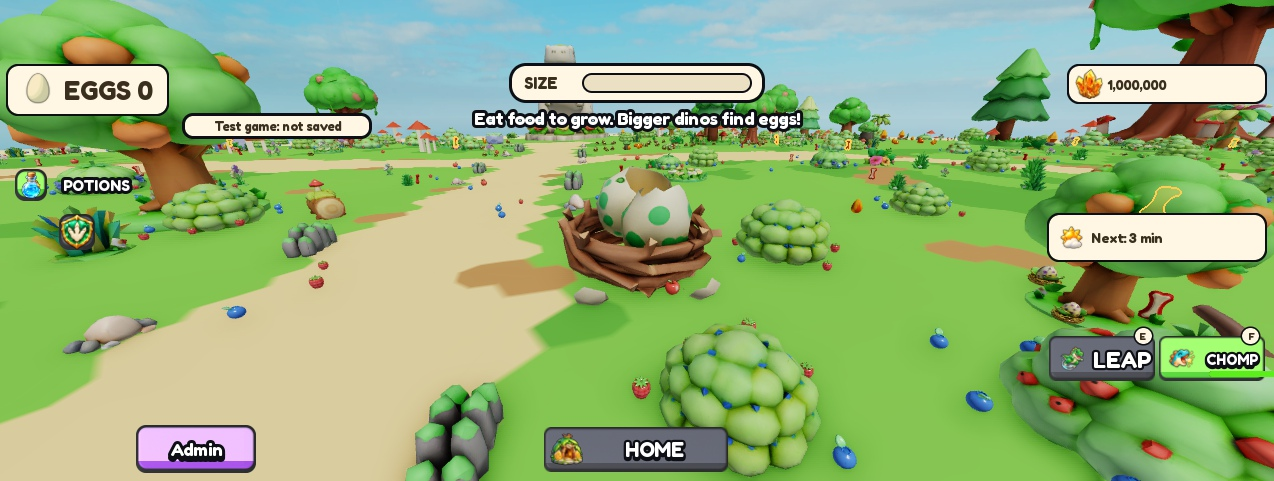
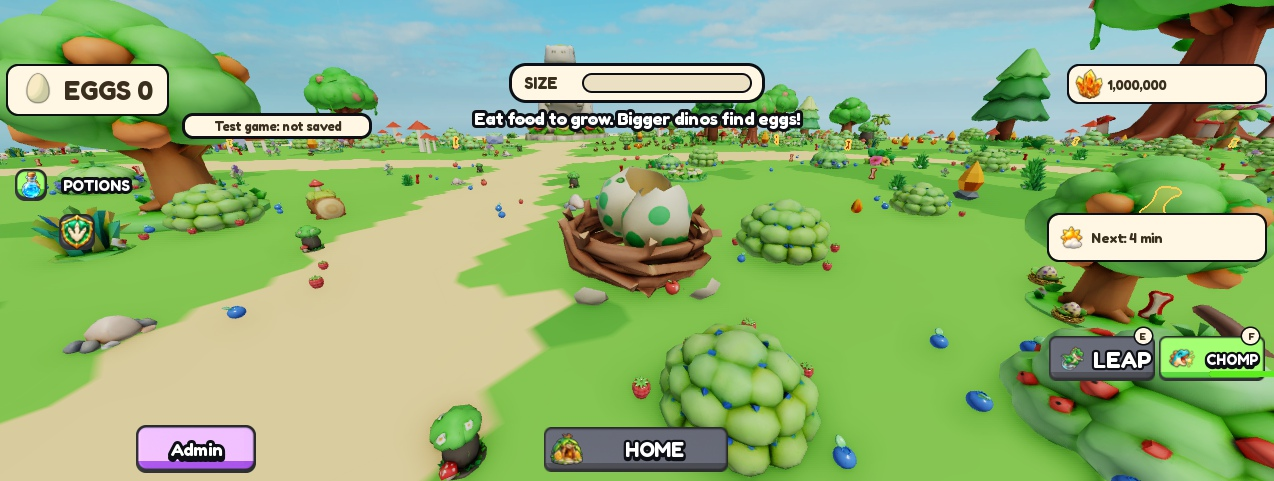
BD-1245 lead review of #623: no brown hexagons on the path rim, rounded mossy rocks instead of the blocky edge stones
- WorldFill.surface: the path rim takes the path colour (a brown/rock biome pick becomes Limestone, grass stays
  grass), only the grass varies (the other green); no earth spots.
- Edge stones show the vegetation v2 mossy rock (use = "veg2_rock_mossy"); the generated row 73588589747994
  is rejected (docs/77), not loaded.
- New after pictures; the first-version pictures kept as review1-*. Studio parts within 300 studs: 4,311.

diff --git a/tools/verify_world_fill.py b/tools/verify_world_fill.py
@@ -15,7 +15,7 @@ placements (tools/world_colliders.dump) in the pinned Luau runtime and checks:
   * the part bill near spawn (BD-1222 phone budget): ground cover dropped by the lower CoverKeep within 300 studs of spawn is more than the
     pieces added there (set pieces with their collider included), so the count goes down.
 Source guards: both flags ship false, are pinned off in the default profile, ON in the playtest profile and in the rehearsal list; Arena,
-IslandTerrain, FoodLayer, FoodGlow and the loader act only through the flag checks; Bootstrap.client is untouched; the nine generated ids
+IslandTerrain, FoodLayer, FoodGlow and the loader act only through the flag checks; Bootstrap.client is untouched; the eight generated ids
 are real, distinct and listed in docs/77; the evidence pictures exist.
 Usage: python tools/verify_world_fill.py --runner luau.exe"""
 from pathlib import Path
@@ -57,24 +57,30 @@ check(not Fill.thingsEnabled({WorldV3Enabled = true, ToonWorldEnabled = true, Ve
 check(not Fill.groundEnabled(nil) and not Fill.thingsEnabled(nil), "off for nil")
 for key in Fill.Assets do check(Fill.ready(key), "published id for " .. key) end
 
--- surface
-local changed, edge = 0, 0
+-- surface (lead review of #623: no brown on the path rim, only the grass varies)
+local changed, rim = 0, 0
 for x = -300, 300, 7 do
     for z = -270, 330, 7 do
         local h = V3.height(x, z)
         local zone = V3.zoneAt(x, z).id
-        check(Fill.surface(V3, x, z, h, "Sand") == nil and Fill.surface(V3, x, z, h, "Limestone") == nil and Fill.surface(V3, x, z, h, "Rock") == nil, "only grass columns change")
-        local s = Fill.surface(V3, x, z, h, "Grass")
-        if s then
-            changed += 1
-            check(zone == "meadow" or zone == "forest" or zone == "pine", "grass zones only (" .. zone .. ")")
-            check(s == "Ground" or s == "LeafyGrass", "earth or the other green")
-            if V3.path(x, z) > .04 then edge += 1 check(s == "Ground", "the path rim is worn earth") end
+        local onRim = V3.path(x, z) > .04
+        for _, pick in {"Grass", "LeafyGrass", "Ground", "Mud", "Sand", "Rock", "Limestone"} do
+            local s = Fill.surface(V3, x, z, h, pick)
+            check(s ~= "Ground" and s ~= "Mud", "never paints earth")
+            if s then
+                changed += 1
+                check(zone == "meadow" or zone == "forest" or zone == "pine", "grass zones only (" .. zone .. ")")
+                if onRim then
+                    check(pick ~= "Grass" and pick ~= "LeafyGrass" and s == "Limestone", "the path rim takes the path colour, grass stays grass")
+                    rim += 1
+                else
+                    check((pick == "Grass" and s == "LeafyGrass") or (pick == "LeafyGrass" and s == "Grass"), "away from the path only the grass varies")
+                end
+            end
         end
-        if Fill.surface(V3, x, z, h, "LeafyGrass") == "LeafyGrass" then check(false, "LeafyGrass never maps to itself") end
     end
 end
-check(changed > 300 and edge > 20, string.format("surface changes some grass (%d, rim %d)", changed, edge))
+check(changed > 300 and rim > 20, string.format("surface changes some grass and the rim (%d, rim %d)", changed, rim))
 
 -- ground detail and set pieces against the real island
 local blockers = {}
@@ -213,9 +219,12 @@ def source_checks():
     if 'WorldFill' in boot or 'GroundDetail' in boot or 'ThingsToDo' in boot:
         errors.append('Bootstrap.client must not change')
     registry = read('docs/77-asset-registry.md')
-    items = re.findall(r'((?:fill|set)_\w+) = \{assetId = "(\d+)"', read('src/shared/WorldFill.luau'))
-    if len(items) != 9 or len({i for _, i in items}) != 9:
-        errors.append('9 distinct published ids expected (%d)' % len(items))
+    fill = read('src/shared/WorldFill.luau')
+    items = re.findall(r'((?:fill|set)_\w+) = \{assetId = "(\d+)"', fill)
+    if len(items) != 8 or len({i for _, i in items}) != 8:
+        errors.append('8 distinct published ids expected (%d)' % len(items))
+    if 'fill_edge_stones = {assetId = "", use = "veg2_rock_mossy"' not in fill or '| world_gen_fill_edge_stones |' not in registry:
+        errors.append('the edge stones show the vegetation v2 mossy rock (the blocky generated row is rejected, still listed in docs/77)')
     for key, aid in items:
         if f'| world_gen_{key} |' not in registry or f'| {aid} |' not in registry:
             errors.append(f'docs/77 line missing for {key} ({aid})')

diff --git a/tests/test_world_fill.py b/tests/test_world_fill.py
@@ -1,10 +1,11 @@
 """BD-1245 + BD-1246 world fill: offline source checks (the Luau checks are tools/verify_world_fill.py, in CI)."""
-import importlib.util
 import pathlib
 import re
+import sys
 import unittest
 
 ROOT = pathlib.Path(__file__).resolve().parents[1]
+sys.path.insert(0, str(ROOT / 'tools'))
 
 
 def read(path):
@@ -14,9 +15,7 @@ def read(path):
 class WorldFillTests(unittest.TestCase):
     def test_flags_ship_off_and_playtest_turns_them_on(self):
         text = read('src/shared/Config.luau')
-        spec = importlib.util.spec_from_file_location('release_profiles', ROOT / 'tools' / 'release_profiles.py')
-        profiles = importlib.util.module_from_spec(spec)
-        spec.loader.exec_module(profiles)
+        import release_profiles as profiles
         playtest = profiles.apply_profile(text, 'playtest')[0]
         for flag in ('GroundDetailEnabled', 'ThingsToDoEnabled'):
             self.assertIn(f'    {flag} = false,\n', text)
@@ -24,10 +23,10 @@ class WorldFillTests(unittest.TestCase):
             self.assertIn(flag, [key for key, _ in profiles.REHEARSAL_ON])
         self.assertEqual(profiles.verify_source(text, 'default').errors, [])
 
-    def test_nine_published_ids_with_registry_lines(self):
+    def test_eight_published_ids_with_registry_lines(self):
         items = re.findall(r'((?:fill|set)_\w+) = \{assetId = "(\d+)"', read('src/shared/WorldFill.luau'))
-        self.assertEqual(len(items), 9)
-        self.assertEqual(len({i for _, i in items}), 9)
+        self.assertEqual(len(items), 8)  # + the edge stones, which show the vegetation v2 mossy rock (lead review of #623)
+        self.assertEqual(len({i for _, i in items}), 8)
         registry = read('docs/77-asset-registry.md')
         for key, aid in items:
             self.assertIn(f'| world_gen_{key} |', registry)

diff --git a/docs/77-asset-registry.md b/docs/77-asset-registry.md
@@ -470,7 +470,7 @@ The 17-sound pack from `assets/audio/sfx/` (synthesized placeholders by `tools/g
 | world_gen_veg2_rock_mossy | 3D mesh, vegetation v2: grey boulder with a moss cap and a mushroom, up to 600 tris (BD-1239, Roblox generate_mesh from the approved concept sheet, reference docs/evidence/2026-11-16-vegetation-v2/refs/ref-rock_mossy_a.png, published to owner account 2026-11-16; no repo file) | - | 123042036522291 | src/shared/VegetationV2.luau Assets, src/server/ImportedResources.luau loadGeneratedWorld, src/server/Arena.luau veg2Prop | published, loaded and used only with Config.VegetationV2Enabled (+ WorldV3Enabled, ToonWorldEnabled; playtest profile); a failed load keeps the current mesh |
 | world_gen_veg2_rock_spiral | 3D mesh, vegetation v2: mossy stone with a carved spiral, up to 700 tris (BD-1239, Roblox generate_mesh from the approved concept sheet, reference docs/evidence/2026-11-16-vegetation-v2/refs/ref-rock_mossy_spiral.png, published to owner account 2026-11-16; no repo file) | - | 110545121175304 | src/shared/VegetationV2.luau Assets, src/server/ImportedResources.luau loadGeneratedWorld, src/server/Arena.luau veg2Prop | published, loaded and used only with Config.VegetationV2Enabled (+ WorldV3Enabled, ToonWorldEnabled; playtest profile); a failed load keeps the current mesh |
 | world_gen_fill_pebbles | 3D mesh, world fill: cluster of five smooth pebbles (BD-1245, owner 2026-11-16 "game still looks empty", Roblox generate_mesh from a text prompt in the project test Studio, published to owner account 2026-11-16; Studio pictures docs/evidence/2026-11-16-world-fill-ground; no repo file) | - | 118507450426245 | src/shared/WorldFill.luau Assets, src/server/ImportedResources.luau loadGeneratedWorld, src/server/Arena.luau worldFill | published, loaded and used only with Config.GroundDetailEnabled (+ WorldV3Enabled, ToonWorldEnabled, VegetationV2Enabled; playtest profile); a failed load leaves that piece out |
-| world_gen_fill_edge_stones | 3D mesh, world fill: row of four rounded path edge stones with moss caps (BD-1245, owner 2026-11-16 "game still looks empty", Roblox generate_mesh from a text prompt in the project test Studio, published to owner account 2026-11-16; Studio pictures docs/evidence/2026-11-16-world-fill-ground; no repo file) | - | 73588589747994 | src/shared/WorldFill.luau Assets, src/server/ImportedResources.luau loadGeneratedWorld, src/server/Arena.luau worldFill | published, loaded and used only with Config.GroundDetailEnabled (+ WorldV3Enabled, ToonWorldEnabled, VegetationV2Enabled; playtest profile); a failed load leaves that piece out |
+| world_gen_fill_edge_stones | 3D mesh, world fill: row of four path edge stones (BD-1245, Roblox generate_mesh from a text prompt, published to owner account 2026-11-16; no repo file). REJECTED in the lead review of #623 (sharp blocky cubes): not loaded or used; the edge stones show world_gen_veg2_rock_mossy instead | - | 73588589747994 | none (src/shared/WorldFill.luau keeps fill_edge_stones with use = "veg2_rock_mossy") | rejected, not used |
 | world_gen_fill_flower_patch | 3D mesh, world fill: round patch of soft grass clumps with daisies, buttercups and pink flowers (BD-1245, owner 2026-11-16 "game still looks empty", Roblox generate_mesh from a text prompt in the project test Studio, published to owner account 2026-11-16; Studio pictures docs/evidence/2026-11-16-world-fill-ground; no repo file) | - | 121062536751756 | src/shared/WorldFill.luau Assets, src/server/ImportedResources.luau loadGeneratedWorld, src/server/Arena.luau worldFill | published, loaded and used only with Config.GroundDetailEnabled (+ WorldV3Enabled, ToonWorldEnabled, VegetationV2Enabled; playtest profile); a failed load leaves that piece out |
 | world_gen_fill_log | 3D mesh, world fill: short fallen log with moss and a red mushroom (BD-1245, owner 2026-11-16 "game still looks empty", Roblox generate_mesh from a text prompt in the project test Studio, published to owner account 2026-11-16; Studio pictures docs/evidence/2026-11-16-world-fill-ground; no repo file) | - | 76677189977321 | src/shared/WorldFill.luau Assets, src/server/ImportedResources.luau loadGeneratedWorld, src/server/Arena.luau worldFill | published, loaded and used only with Config.GroundDetailEnabled (+ WorldV3Enabled, ToonWorldEnabled, VegetationV2Enabled; playtest profile); a failed load leaves that piece out |
 | world_gen_set_egg_nest | 3D mesh, world fill: twig nest with two cracked dino egg shells (BD-1246, owner 2026-11-16 "game still looks empty", Roblox generate_mesh from a text prompt in the project test Studio, published to owner account 2026-11-16; Studio pictures docs/evidence/2026-11-16-world-fill-ground; no repo file) | - | 100943523462285 | src/shared/WorldFill.luau Assets, src/server/ImportedResources.luau loadGeneratedWorld, src/server/Arena.luau worldFill | published, loaded and used only with Config.ThingsToDoEnabled (+ WorldV3Enabled, ToonWorldEnabled, VegetationV2Enabled; playtest profile); a failed load leaves that piece out |

diff --git a/docs/157-playtest-profile-newest-features.md b/docs/157-playtest-profile-newest-features.md
@@ -127,4 +127,4 @@ Label: **CURRENT BUILD BEHAVIOR** of the playtest profile; the default profile o
 * **Update 2026-11-16 (BD-1237, owner 2026-11-16 "continue until everything is done", [240](240-cohesion-style-bible.md) step 4):** `MenusCohesionEnabled` (Egg chances in kid words with the exact numbers one tap away, the Food guide with the real V3 food meshes, a white weather word with its icon and a cream chip, cream toast cards, Go home? and Buy egg confirms on cream panels with one green button, cream shop tiles and egg card, grey Codes / Tell us! / How to play, no empty Fusion colour bar) joins the "on" list: the playtest profile sets it, the default profile requires it false, the rehearsal list has it. LEAD decision (owner delegated 2026-10-16). Client presentation only. Studio evidence docs/evidence/2026-11-16-menus-style; no phone check yet (BD-1241).
 * **Update 2026-11-16 (BD-1239, owner 2026-11-16 "vegetation looks cheap", concept sheet approved "Yes, build all"):** `VegetationV2Enabled` (with World V3 and the toon island: the island plants show the vegetation v2 family, 18 Roblox `generate_mesh` models written from the approved sheet: flower, fruit and twisty trees, two pines, coconut and flower palms, red, blue and grape berry bushes as the berry hosts, daisy and hibiscus clusters, two soft grass clumps, two ferns, two mossy rocks; the flat spiky grass tufts are gone and ground cover is thinned to about 55%) is ON in the playtest profile and pinned off in the default profile. Same kit ids, placement, colliders and food hosts. Studio PC numbers (not a phone): parts within 300 studs of spawn 5,103 -> 4,672, island prop triangles in that range 1,319 k -> 845 k. Evidence docs/evidence/2026-11-16-vegetation-v2; no phone check yet.
 * **Update 2026-11-16 (BD-1239 follow-up, lead review of the #619 pictures):** with `VegetationV2Enabled` the three berry bushes are regenerated with small berries (the food pickups are the biggest berries on screen), round bushes are 3-5.5 kit studs tall with a lower dome instead of the 4-12 stud band, a quarter of the shrub-layer bush picks become flower or grass clumps or open ground (`VegetationV2.BushRule`), and the food map of that island is `FoodLayerDataV3HostsVeg2` (`tools/food_hosts.py --veg2`, same 3,600 foods and per-zone counts, checked by `verify_food_hosts.py --veg2`). Ground cover keeps 50%. Evidence docs/evidence/2026-11-16-vegetation-v2/follow-up.
-* **Update 2026-11-16 (BD-1245 + BD-1246, owner 2026-11-16 "game still looks empty", "Yes, build all"):** `GroundDetailEnabled` (a worn earth edge along the paths and soft patches of the other green and small earth spots in the open grass, terrain only; generated edge stones, pebbles and one log along each spoke and flower-and-grass patches, one mesh each; single ground cover clumps thinned from 50% to 30% to pay for them) and `ThingsToDoEnabled` (79 berries and fruit moved inside the food map grid from the 180-300 stud band of their own zone to little clusters along the first stretch of each spoke path, same 3,600 foods and per-zone counts, food glow reaches 175 studs; one generated set piece per spoke: egg nest, signpost with the zone names, campfire, log bridge at the lagoon, fossil dig) are ON in the playtest profile and pinned off in the default profile (both need World V3, the toon island and vegetation v2). Studio PC numbers (not a phone): parts within 300 studs of spawn 4,479 -> 4,313 (server count, same method both times; food there 2,747 both times). Evidence docs/evidence/2026-11-16-world-fill-ground; no phone check yet.
+* **Update 2026-11-16 (BD-1245 + BD-1246, owner 2026-11-16 "game still looks empty", "Yes, build all"):** `GroundDetailEnabled` (soft patches of the other green in the open grass and a path-coloured path rim, terrain only; vegetation v2 mossy rocks as edge stones, generated pebbles and one log along each spoke and flower-and-grass patches, one mesh each; single ground cover clumps thinned from 50% to 30% to pay for them) and `ThingsToDoEnabled` (79 berries and fruit moved inside the food map grid from the 180-300 stud band of their own zone to little clusters along the first stretch of each spoke path, same 3,600 foods and per-zone counts, food glow reaches 175 studs; one generated set piece per spoke: egg nest, signpost with the zone names, campfire, log bridge at the lagoon, fossil dig) are ON in the playtest profile and pinned off in the default profile (both need World V3, the toon island and vegetation v2). Studio PC numbers (not a phone): parts within 300 studs of spawn 4,479 -> 4,313 (server count, same method both times; food there 2,747 both times). Evidence docs/evidence/2026-11-16-world-fill-ground; no phone check yet.

diff --git a/docs/evidence/2026-11-16-world-fill-ground/README.md b/docs/evidence/2026-11-16-world-fill-ground/README.md
@@ -4,22 +4,23 @@ Owner 2026-11-16, spawn screenshot: "game still looks empty", then "Yes, build a
 
 | Picture | What it shows |
 | --- | --- |
-| before-path-view.jpg / after-path-view.jpg | The owner's complaint view: from the plaza edge down the forest path to the big tree, same camera. After: worn earth edge along the path, mossy edge stones and pebbles, berries along the path, the signpost with the zone names. |
+| before-path-view.jpg / after-path-view.jpg | The owner's complaint view: from the plaza edge down the forest path to the big tree, same camera. After: clean path rim, soft grass colour patches, rounded mossy edge rocks and pebbles, berries along the path, the signpost with the zone names. |
 | before-spawn-view.jpg / after-spawn-view.jpg | The spawn point on the plaza. The plaza itself is unchanged (stalls, plaza paving); the change starts where the paths leave the plaza. |
 | set-signpost-forest.jpg | Forest spoke: signpost with "Forest / Meadow / Beach" (the first thing down the main path), food along the path. |
 | set-egg-nest-meadow.jpg | Meadow spoke: twig nest with two cracked dino eggs, edge stones, pebbles, a log. |
 | set-campfire-pine.jpg | Pine spoke: campfire in a stone ring with log seats. |
 | set-log-bridge-beach.jpg | Beach spoke: little log bridge at the lagoon edge. |
 | set-fossil-dig-volcano.jpg | Volcano spoke: fossil dig (skull, ribs, shovel in sand). |
+| review1-after-path-view-hexagons.jpg, review1-egg-nest-blocky-stones.jpg | First version, lead review of #623: brown earth showed as hard voxel hexagons on the path rim, and the generated edge-stone row was sharp blocky cubes. Fixed: the path rim takes the path colour, only the grass varies (no earth), and the edge stones show the vegetation v2 mossy rock. after-path-view.jpg and set-egg-nest-meadow.jpg are the fixed versions. |
 | fossil-dig-v1-REJECTED-tub.jpg | The first fossil dig came out as a blue tub with a skull; regenerated (v2 is used). |
 
-All nine meshes are Roblox `generate_mesh` models made in the project's own test Studio from text prompts (ids in `src/shared/WorldFill.luau`, lines in docs/77). Nothing is code-built; the signpost words are a BillboardGui (UI text).
+Eight meshes (the ninth, the edge-stone row, was rejected in review) are Roblox `generate_mesh` models made in the project's own test Studio from text prompts (ids in `src/shared/WorldFill.luau`, lines in docs/77). Nothing is code-built; the signpost words are a BillboardGui (UI text).
 
 ## Numbers (Studio server, BaseParts with XZ distance <= 300 from (0, 30), same method as BD-1239)
 
 | | Before (flags off) | After (flags on) |
 | --- | --- | --- |
-| All parts | 4,479 | 4,313 |
+| All parts | 4,479 | 4,313 (4,311 after the review fix) |
 | Food parts | 2,747 | 2,747 |
 | World fill pieces + set pieces + colliders | 0 | 95 |
 | Single ground cover clumps (whole island) | 808 | 483 |
@@ -28,4 +29,4 @@ The client count of BD-1239 (4,672) includes client-only parts; this table uses 
 
 Food: 79 berries and fruit moved inside the food map grid (the BD-1047 cells) from the 180-300 stud band of their own zone to clusters of three along the first stretch of each spoke path; the same 3,600 foods, the same count of every kind in every zone, starter patches untouched (checked offline). FoodGlow reaches 175 studs instead of 130.
 
-Not verified: phone frame rate and look, how a child reads the sign, the earth spots (terrain voxels make them a little hexagonal).
+Not verified: phone frame rate and look, how a child reads the sign.
